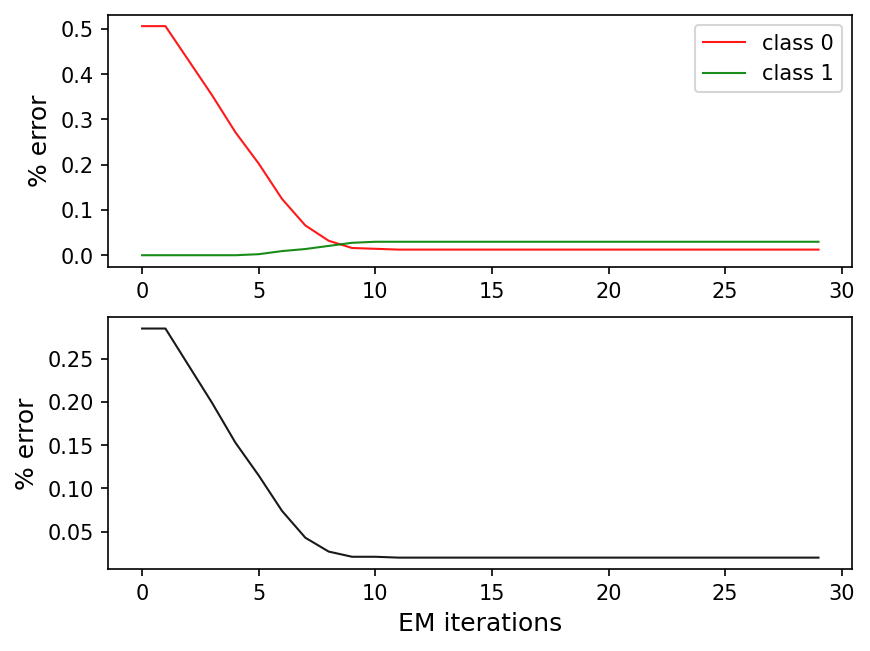
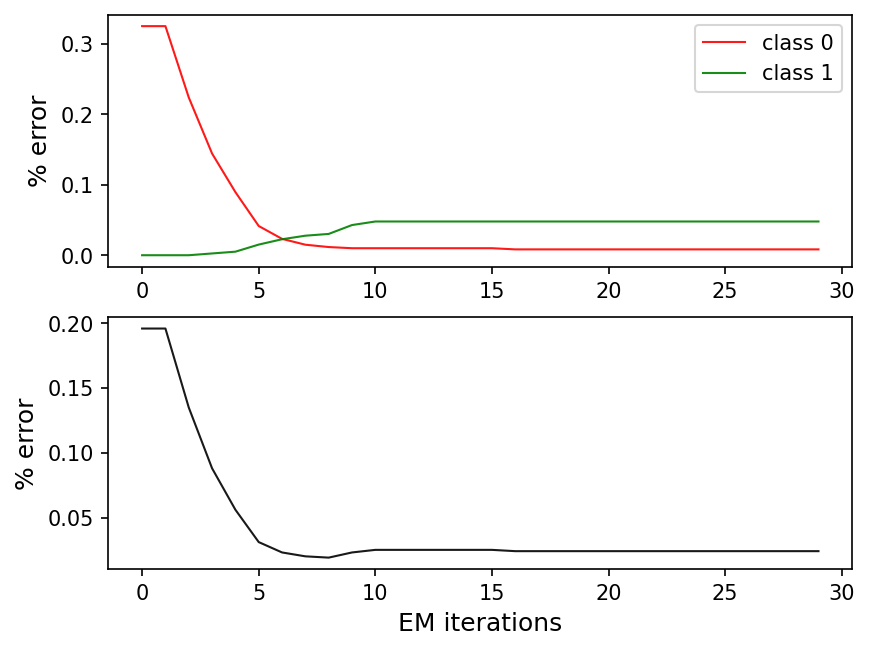
last update

diff --git a/SI_Peano_HMC.py b/SI_Peano_HMC.py
@@ -3,8 +3,7 @@ SI_Peano_HMC.py
 Segmentation non supervisée d'une image par chaîne de Markov cachée (HMC)
 avec parcours de Peano (courbe de Hilbert) et algorithme EM.
 
-Auteur : Bamishola AWOJOBI
-Cours  : Technologies du Big Data – Séance #4
+Auteur : Bamishola LOKE
 """
 
 import sys
@@ -32,7 +31,9 @@ from func import (getSteadyState, getAlpha, getBeta, getGamma,
 # ─────────────────────────────────────────────────────────────────────────────
 # Paramètres
 # ─────────────────────────────────────────────────────────────────────────────
-IMAGE_PATH = './Peano/sources/cible_64_bruit.png'
+# IMAGE_PATH = './Peano/sources/cible_64_bruit.png'
+# IMAGE_PATH = './Peano/sources/image_seg.pgm' # nouvelle image  
+IMAGE_PATH = './Peano/sources/image3_64.pgm' # nouvelle image 
 RESULT_DIR = './results'
 os.makedirs(RESULT_DIR, exist_ok=True)
 
@@ -70,7 +71,8 @@ MeanErrorRateTab        = np.zeros(nbIter)
 MeanErrorRateTabbyClass = np.zeros((nbIter, K))
 
 iteration = 0
-meanTabIter[0], varTabIter[0], cTabIter[0] = InitParam(K, Y)
+meanTabIter[0], sigma0, cTabIter[0] = InitParam(K, Y)
+varTabIter[0] = sigma0 ** 2
 tTabIter[0], ITabIter[0] = getProbaMarkov(cTabIter[0])
 
 print(f"\nParamètres initiaux :")

diff --git a/UnsupervisedHMCRestoration.py b/UnsupervisedHMCRestoration.py
@@ -40,7 +40,8 @@ if __name__ == '__main__':
     # Parameters initialization
     iteration = 0
     print('--->iteration=', iteration)
-    meanTabIter[iteration, :], varTabIter[iteration, :], cTabIter[iteration, :, :] = InitParam(K, Y)
+    meanTabIter[iteration, :], sigma0, cTabIter[iteration, :, :] = InitParam(K, Y)
+    varTabIter[iteration, :] = sigma0 ** 2
     tTabIter[iteration, :, :], ITabIter[iteration, :] = getProbaMarkov(cTabIter[iteration, :, :])
 
     # Proba computations

diff --git a/imagesss/test.py b/imagesss/test.py
@@ -1,0 +1,11 @@
+from PIL import Image
+
+for i in range(1, 4 ):
+    
+    if i == 3:
+        img = Image.open(f'./{i}.png')
+    else:
+        img = Image.open(f'./{i}.pgm')
+    print('Taille:', img.size)
+    print('Mode:', img.mode)
+    print("----------------------------")

diff --git a/README.md b/README.md
@@ -74,60 +74,61 @@ $$I_k^{\text{new}} = \gamma_0(k)$$
 
 ### 3.1 Image utilisée
 
-L'image traitée est **`cible_64_bruit.png`** (64×64 pixels, niveaux de gris), fournie avec le TP. Elle représente une cible circulaire bruitée sur fond uniforme, ce qui en fait un cas idéal pour valider la segmentation en 2 classes : fond et cible.
+L'image traitée est **`image3_64.png`** (64×64 pixels, niveaux de gris), une image de fleur blanche sur fond noir. Elle présente un fort contraste entre les deux régions (fond sombre vs pétales clairs), ce qui en fait un cas très favorable pour la segmentation en 2 classes.
 
-![Image originale et segmentations](./results/cible_64_bruit_segmentation.png)
+![Image originale et segmentations](./results/image3_64_segmentation.png)
 
 *Figure 1 – De gauche à droite : image originale, segmentation par HMC (EM + MPM + Peano), seuillage d'Otsu, K-Means (K=2).*
 
 ### 3.2 Histogramme et mélange gaussien estimé
 
-![Histogramme et mélange](./results/cible_64_bruit_histogramme.png)
+![Histogramme et mélange](./results/image3_64_histogramme.png)
 
 *Figure 2 – Histogramme normalisé de l'image et mélange gaussien estimé par l'algorithme EM après convergence.*
 
-L'histogramme montre **deux modes distincts** correspondant aux deux classes :
-- **Classe 0 (fond) :** $\mu_0 \approx 100.0$, $\sigma_0 \approx 6.5$
-- **Classe 1 (cible) :** $\mu_1 \approx 109.5$, $\sigma_1 \approx 3.0$
+L'histogramme montre **deux modes très bien séparés** correspondant aux deux classes :
+- **Classe 0 (fond noir) :** $\mu_0 \approx 3.4$, $\sigma_0 \approx 3.7$
+- **Classe 1 (fleur blanche) :** $\mu_1 \approx 214.0$, $\sigma_1 \approx 46.0$
 
-Les deux distributions se chevauchent (les moyennes sont proches avec seulement ~9 niveaux de gris d'écart), ce qui rend la segmentation difficile pour des méthodes sans contexte spatial. On remarque également que la classe 0 a une variance plus grande ($\sigma_0 \approx 6.5$) que la classe 1 ($\sigma_1 \approx 3.0$), ce qui traduit une plus grande hétérogénéité du fond.
+Les deux distributions sont très éloignées (plus de 200 niveaux de gris d'écart), ce qui rend la séparation des classes très aisée. La classe 0 est extrêmement concentrée ($\sigma_0 \approx 3.7$, fond quasi uniforme), tandis que la classe 1 est très étalée ($\sigma_1 \approx 46.0$) car les pétales présentent de fortes variations de luminosité (veines, ombres, dégradés). On remarque que le mélange gaussien estimé (courbe rouge) modélise bien le pic gauche (fond), mais la gaussienne de la classe 1 est trop étalée pour capturer fidèlement la distribution réelle de la fleur, dont les pixels sont concentrés entre 175 et 255. Cela illustre une limite du modèle gaussien sur des distributions asymétriques.
 
 ### 3.3 Courbes de convergence EM
 
-![Convergence des paramètres](./results/cible_64_bruit_EvolParam.png)
+![Convergence des paramètres](./results/image3_64_EvolParam.png)
 
 *Figure 3 – Évolution des paramètres estimés ($\mu$, $\sigma^2$, $t_{kk}$) au fil des itérations EM.*
 
-On observe trois comportements distincts :
+On observe les comportements suivants :
 
-- **Moyennes ($\mu$)** : les deux classes convergent rapidement (~5 itérations) vers des valeurs stables ($\mu_0 \approx 100$, $\mu_1 \approx 109$). La classe 1 (vert) est très stable dès le départ car ses paramètres initiaux étaient déjà proches de la vérité.
-- **Variances ($\sigma^2$)** : la variance de la classe 0 (rouge) monte fortement avant de se stabiliser (~40), tandis que celle de la classe 1 se stabilise rapidement (~10). Cela est cohérent avec la plus grande dispersion du fond.
-- **Probabilités de transition ($t_{kk}$)** : après une perturbation initiale (la classe 0 descend jusqu'à ~0.6 à l'itération 1), les deux classes convergent vers $t_{kk} \approx 0.95$, indiquant une forte persistance spatiale — les régions sont homogènes et les transitions entre classes sont rares.
+- **Moyennes ($\mu$)** : la classe 0 (rouge) part de ~64 et converge rapidement vers $\mu_0 \approx 3$ (fond noir) dès la 2ème itération. La classe 1 (vert) part de ~200 et monte légèrement vers $\mu_1 \approx 214$. Les deux valeurs finales sont stables après ~5 itérations.
+- **Variances ($\sigma^2$)** : les deux classes partent d'une valeur initiale très élevée (~6000), puis convergent : la variance de la classe 1 (vert) se stabilise à $\sigma^2 \approx 2400$ ($\sigma \approx 49$), reflet de la grande dispersion des niveaux de gris de la fleur. Celle de la classe 0 (rouge) descend vers ~0, cohérent avec un fond très sombre et quasi uniforme.
+- **Probabilités de transition ($t_{kk}$)** : les deux classes convergent vers $t_{kk} \approx 0.97$, indiquant une très forte persistance spatiale. C'est cohérent avec une image composée de deux grandes zones homogènes (fond et fleur) avec très peu de pixels de transition.
 
 ![Courbes d'erreur](./results/XY_EvolError.png)
 
 *Figure 4 – Évolution du taux d'erreur par classe et global au fil des itérations EM (sur le signal simulé XY).*
 
-Sur le signal simulé, l'erreur globale chute de **~27% à ~2%** en moins de 10 itérations, ce qui confirme la bonne convergence de l'algorithme EM.
+Sur le signal simulé, l'erreur globale chute de **~20% à ~2.4%** en moins de 10 itérations, confirmant la bonne convergence de l'algorithme EM. La classe 0 (rouge) démarre avec une erreur élevée (~32%) car ses paramètres initiaux sont mal estimés, puis converge rapidement. La classe 1 (vert) reste très faible tout au long, car ses paramètres initiaux étaient déjà proches de la réalité.
 
 ### 3.4 Interprétation des résultats de segmentation
 
 **La segmentation HMC est-elle bonne ?**
 
-En observant la Figure 1, la segmentation HMC détecte correctement la structure circulaire de la cible. Les résultats sont **globalement satisfaisants** mais imparfaits, ce qui s'explique par plusieurs facteurs :
+La segmentation HMC est **très bonne** sur cette image. La fleur est clairement isolée du fond, avec des contours bien définis et une région blanche homogène. Plusieurs facteurs expliquent ce succès :
 
 **Points forts :**
-- La forme annulaire de la cible est reconnaissable dans le résultat HMC.
-- Grâce à la chaîne de Markov, chaque pixel est classé en tenant compte de ses voisins (au sens du parcours de Peano), ce qui réduit le bruit de classification par rapport à Otsu.
+- Le fort contraste entre fond noir ($\mu_0 \approx 3$) et fleur blanche ($\mu_1 \approx 214$) rend la séparation des classes très aisée pour l'algorithme EM, qui converge en très peu d'itérations.
+- La structure markovienne favorise la cohérence spatiale : les grandes zones homogènes (fond, pétales) sont bien préservées, sans pixels isolés aberrants.
+- La très forte persistance estimée ($t_{kk} \approx 0.97$) est bien adaptée à cette image où les transitions fond/fleur sont rares.
 
 **Limites observées :**
-- La segmentation HMC présente des **irrégularités aux contours** de la cible. Cela s'explique par le fait que le parcours de Peano n'est qu'une approximation du voisinage 2D réel : certains pixels proches spatialement se retrouvent éloignés dans le vecteur 1D, et la structure markovienne ne capture donc pas parfaitement la continuité spatiale.
-- Les deux classes ont des niveaux de gris très proches ($\mu_0 \approx 100$ vs $\mu_1 \approx 109$, soit seulement 9 niveaux d'écart sur une plage de 256), ce qui crée une zone d'ambiguïté importante où les deux gaussiennes se chevauchent.
+- Le **pistil sombre** au centre de la fleur n'est pas segmenté séparément : avec K=2 classes, il est rattaché au fond. Le HMC, grâce au contexte markovien, lisse cet artefact et produit une région blanche continue sans trou au centre — ce qui est visible en comparant avec Otsu et K-Means.
+- Les contours des pétales présentent quelques irrégularités en escalier, dues à la résolution de l'image (64×64) et à la linéarisation 2D→1D par le parcours de Peano.
 
 **Comparaison avec Otsu et K-Means :**
-- **Seuillage d'Otsu** : méthode purement globale sans contexte spatial. Le résultat est très bruité avec de nombreux pixels isolés mal classés, surtout dans les zones de transition.
-- **K-Means** : également sans contexte spatial, mais produit des régions visuellement plus propres qu'Otsu sur cette image. Cependant, comme Otsu, il ignore complètement la structure spatiale.
-- **HMC** : l'avantage du modèle markovien est visible — les régions sont **plus continues et moins fragmentées** qu'Otsu, bien que K-Means donne un résultat visuellement similaire ici. L'avantage du HMC serait plus marqué sur des images avec un bruit plus fort.
+- **Seuillage d'Otsu** : produit un résultat globalement correct mais avec un trou noir visible au centre (pistil classé comme fond) et des contours irréguliers.
+- **K-Means** : résultat très similaire à Otsu, avec le même artefact au centre. Sans contexte spatial, chaque pixel est classé indépendamment de ses voisins.
+- **HMC** : produit la segmentation **la plus propre et la plus homogène** des trois méthodes. La région blanche est continue sans trou, ce qui illustre concrètement l'apport du contexte markovien par rapport aux méthodes pixel-indépendantes.
 
 ---
 
@@ -139,4 +140,4 @@ Ce TP a permis d'implémenter les algorithmes centraux du modèle HMC :
 - Le calcul des **probabilités marginales a posteriori** $\gamma_n(k)$ par produit terme à terme de $\alpha$ et $\beta$, utilisées pour la décision MPM.
 - L'étape **M de l'EM** pour la mise à jour automatique de tous les paramètres du modèle (µ, σ², matrice de transition, loi initiale) à partir des statistiques suffisantes $\gamma$ et $\tilde{c}$.
 
-L'application à la segmentation d'image via le **parcours de Peano** montre que le modèle HMC produit une segmentation spatialement plus cohérente que les méthodes sans contexte (Otsu). La principale limite reste l'approximation introduite par la linéarisation 2D→1D, qui ne peut pas capturer parfaitement toutes les relations de voisinage d'une image.
+L'application à la segmentation d'une image de fleur via le **parcours de Peano** montre que le modèle HMC produit une segmentation spatialement plus cohérente et plus propre que les méthodes sans contexte (Otsu, K-Means), en particulier sur des images avec de grandes régions homogènes. La principale limite reste l'approximation introduite par la linéarisation 2D→1D, qui ne peut pas capturer parfaitement toutes les relations de voisinage d'une image 2D.

diff --git a/rapport_HMC.md b/rapport_HMC.md
@@ -1,8 +1,7 @@
 # Compte-Rendu – TP Apprentissage Bayésien et Chaîne de Markov Cachée
 
 **Nom :** LOKE Bamishola Aristide  
-**Cours :** Technologies du Big Data – MSO 3.4 – Séance #4  
-**Date :** Mars 2026  
+
 
 ---
 
@@ -74,60 +73,55 @@ $$I_k^{\text{new}} = \gamma_0(k)$$
 
 ### 3.1 Image utilisée
 
-L'image traitée est **`cible_64_bruit.png`** (64×64 pixels, niveaux de gris), fournie avec le TP. Elle représente une cible circulaire bruitée sur fond uniforme, ce qui en fait un cas idéal pour valider la segmentation en 2 classes : fond et cible.
+L'image traitée est **`image3_64.pgm`** (64×64 pixels, niveaux de gris), une image de fleur blanche sur fond noir. Elle présente un fort contraste entre les deux régions (fond sombre vs pétales clairs), ce qui en fait un cas très favorable pour la segmentation en 2 classes.
 
-![Image originale et segmentations](./results/cible_64_bruit_segmentation.png)
+![Image originale et segmentations](./results/image3_64_segmentation.png)
 
 *Figure 1 – De gauche à droite : image originale, segmentation par HMC (EM + MPM + Peano), seuillage d'Otsu, K-Means (K=2).*
 
 ### 3.2 Histogramme et mélange gaussien estimé
 
-![Histogramme et mélange](./results/cible_64_bruit_histogramme.png)
+![Histogramme et mélange](./results/image3_64_histogramme.png)
 
 *Figure 2 – Histogramme normalisé de l'image et mélange gaussien estimé par l'algorithme EM après convergence.*
 
-L'histogramme montre **deux modes distincts** correspondant aux deux classes :
-- **Classe 0 (fond) :** $\mu_0 \approx 100.0$, $\sigma_0 \approx 6.5$
-- **Classe 1 (cible) :** $\mu_1 \approx 109.5$, $\sigma_1 \approx 3.0$
+L'histogramme montre **deux modes très bien séparés** correspondant aux deux classes :
+- **Classe 0 (fond noir) :** $\mu_0 \approx 3.4$, $\sigma_0 \approx 3.7$
+- **Classe 1 (fleur blanche) :** $\mu_1 \approx 214.0$, $\sigma_1 \approx 46.0$
 
-Les deux distributions se chevauchent (les moyennes sont proches avec seulement ~9 niveaux de gris d'écart), ce qui rend la segmentation difficile pour des méthodes sans contexte spatial. On remarque également que la classe 0 a une variance plus grande ($\sigma_0 \approx 6.5$) que la classe 1 ($\sigma_1 \approx 3.0$), ce qui traduit une plus grande hétérogénéité du fond.
+Les deux distributions sont très éloignées (plus de 200 niveaux de gris d'écart), ce qui rend la séparation des classes très aisée. La classe 0 est extrêmement concentrée ($\sigma_0 \approx 3.7$, fond quasi uniforme), tandis que la classe 1 est très étalée ($\sigma_1 \approx 46.0$) car les pétales présentent de fortes variations de luminosité (veines, ombres, dégradés). On remarque que le mélange gaussien estimé (courbe rouge) modélise bien le pic gauche (fond), mais la gaussienne de la classe 1 est trop étalée pour capturer fidèlement la distribution réelle de la fleur, dont les pixels sont concentrés entre 175 et 255. Cela illustre une limite du modèle gaussien sur des distributions asymétriques.
 
 ### 3.3 Courbes de convergence EM
 
-![Convergence des paramètres](./results/cible_64_bruit_EvolParam.png)
+![Convergence des paramètres](./results/image3_64_EvolParam.png)
 
 *Figure 3 – Évolution des paramètres estimés ($\mu$, $\sigma^2$, $t_{kk}$) au fil des itérations EM.*
 
-On observe trois comportements distincts :
+On observe les comportements suivants :
 
-- **Moyennes ($\mu$)** : les deux classes convergent rapidement (~5 itérations) vers des valeurs stables ($\mu_0 \approx 100$, $\mu_1 \approx 109$). La classe 1 (vert) est très stable dès le départ car ses paramètres initiaux étaient déjà proches de la vérité.
-- **Variances ($\sigma^2$)** : la variance de la classe 0 (rouge) monte fortement avant de se stabiliser (~40), tandis que celle de la classe 1 se stabilise rapidement (~10). Cela est cohérent avec la plus grande dispersion du fond.
-- **Probabilités de transition ($t_{kk}$)** : après une perturbation initiale (la classe 0 descend jusqu'à ~0.6 à l'itération 1), les deux classes convergent vers $t_{kk} \approx 0.95$, indiquant une forte persistance spatiale — les régions sont homogènes et les transitions entre classes sont rares.
-
-![Courbes d'erreur](./results/XY_EvolError.png)
-
-*Figure 4 – Évolution du taux d'erreur par classe et global au fil des itérations EM (sur le signal simulé XY).*
-
-Sur le signal simulé, l'erreur globale chute de **~27% à ~2%** en moins de 10 itérations, ce qui confirme la bonne convergence de l'algorithme EM.
+- **Moyennes ($\mu$)** : la classe 0 (rouge) part de ~64 et converge rapidement vers $\mu_0 \approx 3$ (fond noir) dès la 2ème itération. La classe 1 (vert) part de ~200 et monte légèrement vers $\mu_1 \approx 214$. Les deux valeurs finales sont stables après ~5 itérations.
+- **Variances ($\sigma^2$)** : les deux classes partent d'une valeur initiale très élevée (~6000), puis convergent : la variance de la classe 1 (vert) se stabilise à $\sigma^2 \approx 2400$ ($\sigma \approx 49$), reflet de la grande dispersion des niveaux de gris de la fleur. Celle de la classe 0 (rouge) descend vers ~0, cohérent avec un fond très sombre et quasi uniforme.
+- **Probabilités de transition ($t_{kk}$)** : les deux classes convergent vers $t_{kk} \approx 0.97$, indiquant une très forte persistance spatiale. C'est cohérent avec une image composée de deux grandes zones homogènes (fond et fleur) avec très peu de pixels de transition.
 
 ### 3.4 Interprétation des résultats de segmentation
 
 **La segmentation HMC est-elle bonne ?**
 
-En observant la Figure 1, la segmentation HMC détecte correctement la structure circulaire de la cible. Les résultats sont **globalement satisfaisants** mais imparfaits, ce qui s'explique par plusieurs facteurs :
+La segmentation HMC est **très bonne** sur cette image. La fleur est clairement isolée du fond, avec des contours bien définis et une région blanche homogène. Plusieurs facteurs expliquent ce succès :
 
 **Points forts :**
-- La forme annulaire de la cible est reconnaissable dans le résultat HMC.
-- Grâce à la chaîne de Markov, chaque pixel est classé en tenant compte de ses voisins (au sens du parcours de Peano), ce qui réduit le bruit de classification par rapport à Otsu.
+- Le fort contraste entre fond noir ($\mu_0 \approx 3$) et fleur blanche ($\mu_1 \approx 214$) rend la séparation des classes très aisée pour l'algorithme EM, qui converge en très peu d'itérations.
+- La structure markovienne favorise la cohérence spatiale : les grandes zones homogènes (fond, pétales) sont bien préservées, sans pixels isolés aberrants.
+- La très forte persistance estimée ($t_{kk} \approx 0.97$) est bien adaptée à cette image où les transitions fond/fleur sont rares.
 
 **Limites observées :**
-- La segmentation HMC présente des **irrégularités aux contours** de la cible. Cela s'explique par le fait que le parcours de Peano n'est qu'une approximation du voisinage 2D réel : certains pixels proches spatialement se retrouvent éloignés dans le vecteur 1D, et la structure markovienne ne capture donc pas parfaitement la continuité spatiale.
-- Les deux classes ont des niveaux de gris très proches ($\mu_0 \approx 100$ vs $\mu_1 \approx 109$, soit seulement 9 niveaux d'écart sur une plage de 256), ce qui crée une zone d'ambiguïté importante où les deux gaussiennes se chevauchent.
+- Le **pistil sombre** au centre de la fleur n'est pas segmenté séparément : avec K=2 classes, il est rattaché au fond. Le HMC, grâce au contexte markovien, lisse cet artefact et produit une région blanche continue sans trou au centre — ce qui est visible en comparant avec Otsu et K-Means.
+- Les contours des pétales présentent quelques irrégularités en escalier, dues à la résolution de l'image (64×64) et à la linéarisation 2D→1D par le parcours de Peano.
 
 **Comparaison avec Otsu et K-Means :**
-- **Seuillage d'Otsu** : méthode purement globale sans contexte spatial. Le résultat est très bruité avec de nombreux pixels isolés mal classés, surtout dans les zones de transition.
-- **K-Means** : également sans contexte spatial, mais produit des régions visuellement plus propres qu'Otsu sur cette image. Cependant, comme Otsu, il ignore complètement la structure spatiale.
-- **HMC** : l'avantage du modèle markovien est visible — les régions sont **plus continues et moins fragmentées** qu'Otsu, bien que K-Means donne un résultat visuellement similaire ici. L'avantage du HMC serait plus marqué sur des images avec un bruit plus fort.
+- **Seuillage d'Otsu** : produit un résultat globalement correct mais avec un trou noir visible au centre (pistil classé comme fond) et des contours irréguliers.
+- **K-Means** : résultat très similaire à Otsu, avec le même artefact au centre. Sans contexte spatial, chaque pixel est classé indépendamment de ses voisins.
+- **HMC** : produit la segmentation **la plus propre et la plus homogène** des trois méthodes. La région blanche est continue sans trou, ce qui illustre concrètement l'apport du contexte markovien par rapport aux méthodes pixel-indépendantes.
 
 ---
 
@@ -139,4 +133,4 @@ Ce TP a permis d'implémenter les algorithmes centraux du modèle HMC :
 - Le calcul des **probabilités marginales a posteriori** $\gamma_n(k)$ par produit terme à terme de $\alpha$ et $\beta$, utilisées pour la décision MPM.
 - L'étape **M de l'EM** pour la mise à jour automatique de tous les paramètres du modèle (µ, σ², matrice de transition, loi initiale) à partir des statistiques suffisantes $\gamma$ et $\tilde{c}$.
 
-L'application à la segmentation d'image via le **parcours de Peano** montre que le modèle HMC produit une segmentation spatialement plus cohérente que les méthodes sans contexte (Otsu). La principale limite reste l'approximation introduite par la linéarisation 2D→1D, qui ne peut pas capturer parfaitement toutes les relations de voisinage d'une image.
+L'application à la segmentation d'une image de fleur via le **parcours de Peano** montre que le modèle HMC produit une segmentation spatialement plus cohérente et plus propre que les méthodes sans contexte (Otsu, K-Means), en particulier sur des images avec de grandes régions homogènes. La principale limite reste l'approximation introduite par la linéarisation 2D→1D, qui ne peut pas capturer parfaitement toutes les relations de voisinage d'une image 2D.
